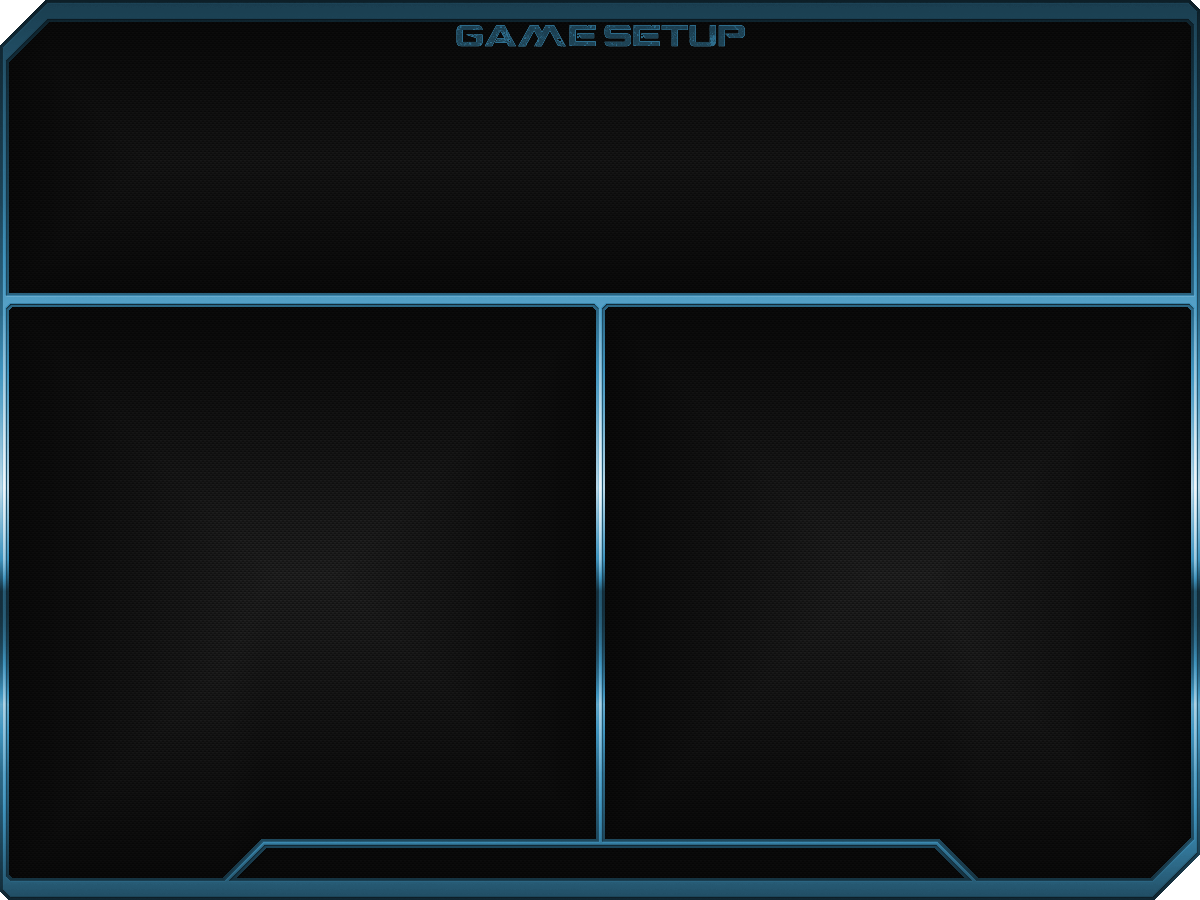
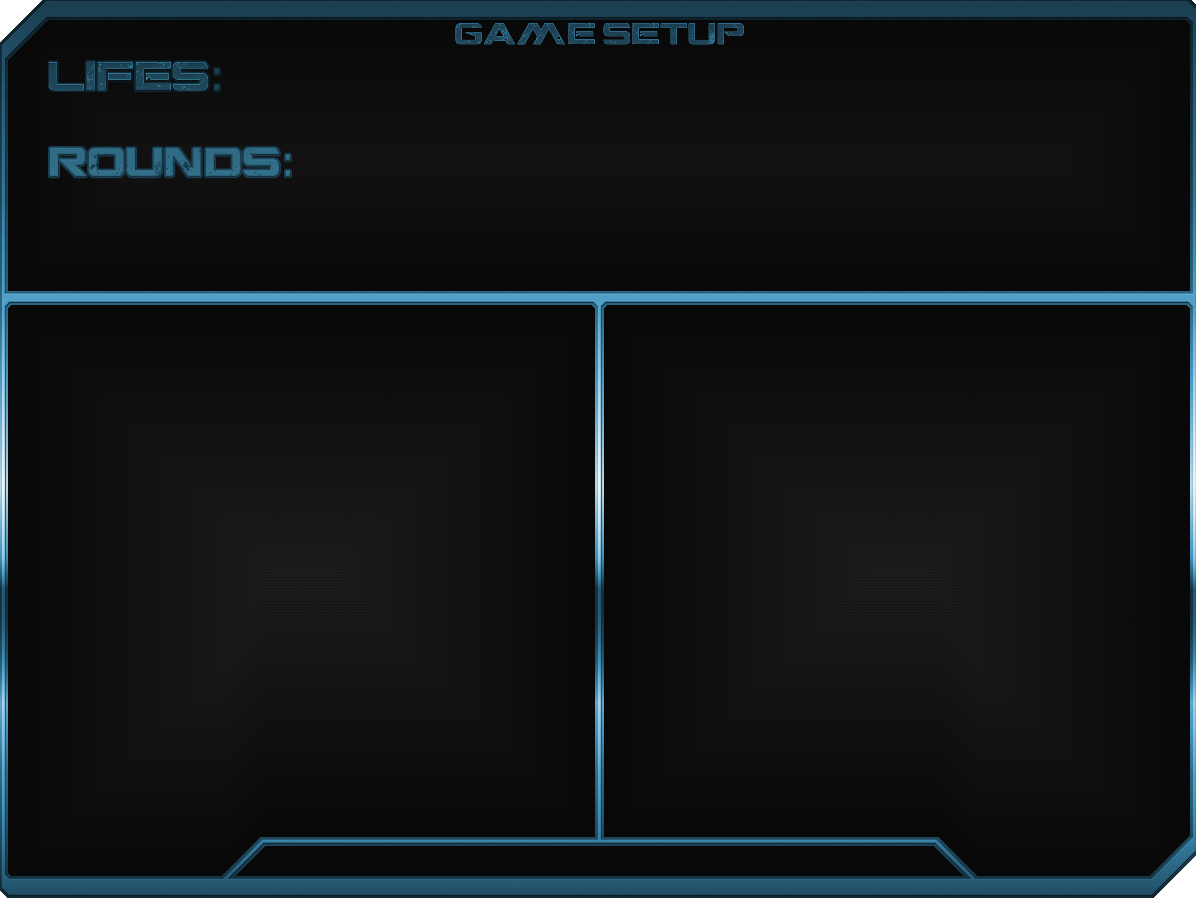
Fixed hotseat menu

diff --git a/Source/MainMenuCreate.cpp b/Source/MainMenuCreate.cpp
@@ -67,7 +67,7 @@ void MainMenu::CreateOptionsMenu()
 	tempElement = new SimpleButton(offSet, 0, 1, "Media/OptionsMenu/buttonadvanced.png", dx, windowHeight, new NoEvent(), "Media/OptionsMenu/clickadvanced.png", "Media/OptionsMenu/mouseoveradvanced.png", dx * (496.0f / 1200) + offSet, windowHeight * (26.0f / 900), dx * (222.0f / 1200), windowHeight * (30.0f / 900));
 	this->mSets[OPTIONS_GAMEPLAY].AddElement(tempElement);
 	*/
-	tempElement = new TextBox(dx * (380.0f / 1200.0f)+offSet, windowHeight*(200.0f / 900.f) ,50 , "Media/Menus/TextBoxBG.png", 600, 100, "Write Text Here", "SampleTest", 1.0f);
+	tempElement = new TextBox(dx * (380.0f / 1200.0f)+offSet, windowHeight*(200.0f / 900.f) ,50 , "Media/Menus/TextBoxBG.png", 600, 100, "Write Text Here", "SampleTest", 1.0f, 25);
 	this->mSets[OPTIONS_GAMEPLAY].AddElement(tempElement);
 
 	//Ugly drop down list to start with
@@ -80,7 +80,7 @@ void MainMenu::CreateOptionsMenu()
 
 	this->mSets[OPTIONS_GAMEPLAY].AddElement(tempElement);
 
-	tempElement = new SimpleButton(dx * (380.0f / 1200.0f)+offSet, windowHeight*(350.0f / 900.f), 1, "Media/Menus/Square_OK.png", 100, 100, new ChangeSetEvent(100000), "", "", dx * (380.0f / 1200.0f)+offSet, windowHeight*(350.0f / 900.f), 100, 100);
+	tempElement = new SimpleButton(dx * (380.0f / 1200.0f)+offSet, windowHeight * (350.0f / 900.f), 1, "Media/Menus/Square_OK.png", 100, 100, new ChangeSetEvent(100000), "", "", dx * (380.0f / 1200.0f)+offSet, windowHeight*(350.0f / 900.f), 100, 100);
 	this->mSets[OPTIONS_GAMEPLAY].AddElement(tempElement);
 
 	tempElement = NULL;
@@ -93,6 +93,12 @@ void MainMenu::CreateHotseatMenu()
 	float offSet = (windowWidth - dx) / 2.0f;
 
 	Element* tempElement = new GUIArchButton(offSet, 0, 1, "Media/HotseatMenu/gamesetupmenu.png", dx, windowHeight, new NoEvent(), " ", " ");
+	this->mSets[OPTIONS_HOTSEAT].AddElement(tempElement);
+
+	tempElement = new TextBox(offSet + dx * (202.0f / 1200.0f), windowHeight * (27.0f / 900.0f), 1, "", 100, 100, "3", "Lifes", 1.15, 2);
+	this->mSets[OPTIONS_HOTSEAT].AddElement(tempElement);
+
+	tempElement = new TextBox(offSet + dx * (275.0f / 1200.0f), windowHeight * (114.0f / 900.0f), 1, "", 100, 100, "5", "Rounds", 1.15, 2);
 	this->mSets[OPTIONS_HOTSEAT].AddElement(tempElement);
 
 	tempElement = new SimpleButton(offSet, 0, 1, "Media/HotseatMenu/buttonbacktomenuhotseat.png", dx, windowHeight, new ChangeSetEvent(MAINMENU), "Media/HotseatMenu/clickbacktomenuhotseat.png" , "Media/HotseatMenu/mouseoverbacktomenuhotseat.png", dx * (605.0f / 1200)+offSet, windowHeight * (847.0f / 900), dx * (330.0f / 1200), windowHeight * (30.0f / 900));

diff --git a/Source/GUI/TextBox.cpp b/Source/GUI/TextBox.cpp
@@ -16,7 +16,7 @@ TextBox::TextBox() : Element()
 	this->mPressedOutside = false;
 	this->mTextSize = 0;
 }
-TextBox::TextBox(float x, float y, float z, string textureName, float width, float height, string text, string name, float textSize) : Element(x, y, z, textureName, width, height)
+TextBox::TextBox(float x, float y, float z, string textureName, float width, float height, string text, string name, float textSize, int maxNrOfChars) : Element(x, y, z, textureName, width, height)
 {
 	this->mActiveX = x+25;
 	this->mActiveY = y+25;
@@ -26,6 +26,8 @@ TextBox::TextBox(float x, float y, float z, string textureName, float width, flo
 
 	this->mText = text;
 	this->mName = name;
+
+	this->mMaxNrOfChars = maxNrOfChars;
 
 	this->mFocused = false;
 	this->mPressed = false;
@@ -102,12 +104,12 @@ bool TextBox::AddToRenderer(GraphicsEngine* ge)
 
  void TextBox::CheckString(GraphicsEngine* ge)
  {
-	 if(this->mPointText->GetText().size() < 25)
+	 if(this->mPointText->GetText().size() < this->mMaxNrOfChars)
 	 {
 		 string pushString = "";
-		 const int NROFLETTERS = 27;
-		 char keys[NROFLETTERS] = {'a', 'b', 'c', 'd', 'e', 'f', 'g', 'h', 'i', 'j', 'k', 'l', 'm', 'n', 'o', 'p', 'q', 'r', 's', 't', 'u', 'v', 'w', 'x', 'y', 'z', ' '};
-		 char KEYS[NROFLETTERS] = {'A', 'B', 'C', 'D', 'E', 'F', 'G', 'H', 'I', 'J', 'K', 'L', 'M', 'N', 'O', 'P', 'Q', 'R', 'S', 'T', 'U', 'V', 'W', 'X', 'Y', 'Z', ' '};
+		 const int NROFLETTERS = 37;
+		 char keys[NROFLETTERS] = {'a', 'b', 'c', 'd', 'e', 'f', 'g', 'h', 'i', 'j', 'k', 'l', 'm', 'n', 'o', 'p', 'q', 'r', 's', 't', 'u', 'v', 'w', 'x', 'y', 'z', ' ', '1', '2', '3', '4', '5', '6', '7', '8', '9', '0'};
+		 char KEYS[NROFLETTERS] = {'A', 'B', 'C', 'D', 'E', 'F', 'G', 'H', 'I', 'J', 'K', 'L', 'M', 'N', 'O', 'P', 'Q', 'R', 'S', 'T', 'U', 'V', 'W', 'X', 'Y', 'Z', ' ', '1', '2', '3', '4', '5', '6', '7', '8', '9', '0'};
 		 if(ge->GetKeyListener()->IsPressed(VK_SHIFT))
 		 {
 			 for(int i = 0; i < NROFLETTERS; i++)

diff --git a/Source/GameManager.cpp b/Source/GameManager.cpp
@@ -47,11 +47,16 @@ GameManager::~GameManager()
 	*/
 }
 
-bool GameManager::Play(const int numPlayers)
+bool GameManager::Play(const int numPlayers, int lifes, int rounds)
 {
 	this->mGameMode = DM;
 	this->mNumPlayers = numPlayers;
 	this->Initialize();
+	for(int i = 0; i < numPlayers; i++)
+	{
+		this->mBalls[i]->SetNumLives(lifes);
+	}
+	this->mRounds = rounds;
 	bool running = true;
 	bool zoomOutPressed = false;
 	bool zoomInPressed = false;
@@ -127,7 +132,7 @@ bool GameManager::Play(const int numPlayers)
 			mGe->GetCamera()->moveForward(diff);
 		if(mGe->GetKeyListener()->IsClicked(1))
 			mGe->GetCamera()->moveBackward(diff);
-
+		
 		// move ball 2
 		if(mGe->GetKeyListener()->IsPressed('H'))
 			mBalls[1]->AddForce(Vector3(-diff,0,0));	
@@ -141,7 +146,7 @@ bool GameManager::Play(const int numPlayers)
 		if(this->mGe->GetKeyListener()->IsPressed(VK_ESCAPE))
 			running = this->mIGM->Run();
 		
-
+		
 		for(int i = 0; i < this->mNumPlayers; i++)
 		{
 			this->mBalls[i]->Update(diff);
@@ -175,7 +180,7 @@ bool GameManager::Play(const int numPlayers)
 
 		if(!this->mGe->isRunning())
 			running = false;
-
+		
 		if(numAlivePlayers <= 1)
 			running = false;
 	}

diff --git a/Source/MainMenu.cpp b/Source/MainMenu.cpp
@@ -166,11 +166,13 @@ bool MainMenu::Run()
 					{
 						CursorControl cc;
 						cc.SetVisibility(true);
-
+						string lifes = this->mSets[this->mCurrentSet].GetTextFromField("Lifes");
+						string rounds = this->mSets[this->mCurrentSet].GetTextFromField("Rounds");
+						
 						this->mSets[this->mCurrentSet].RemoveSetFromRenderer(this->mGe);
 						this->mGm = new GameManager(this->mGe);
-
-						this->mGm->Play(2);
+						
+						this->mGm->Play(2, atoi(lifes.c_str()), atoi(rounds.c_str()));
 						
 						SAFE_DELETE(this->mGm);
 						this->mCurrentSet = MAINMENU;

diff --git a/Source/GUI/TextBox.h b/Source/GUI/TextBox.h
@@ -17,7 +17,8 @@ private:
 	bool mPressed;
 	bool mPressedOutside;
 
-	int mTextSize;
+	float mTextSize;
+	int mMaxNrOfChars;
 
 	string mText;
 	string mName;
@@ -25,7 +26,7 @@ private:
 	Text* mPointText;
 public:
 	TextBox();
-	TextBox(float x, float y, float z, string textureName, float width, float height, string text, string name, float textSize);
+	TextBox(float x, float y, float z, string textureName, float width, float height, string text, string name, float textSize, int maxNrOfChars);
 	virtual ~TextBox();
 
 	/*! Adds the element to the renderer*/

diff --git a/Source/main.cpp b/Source/main.cpp
@@ -13,7 +13,7 @@ int WINAPI wWinMain(HINSTANCE hInstance, HINSTANCE, LPWSTR, int nCmdShow)
 	// Create parameters for the graphics engine, LOAD THEM FROM .cfg-FILE later on!
 	GraphicsEngineParams params;
 	params.windowHeight = 900;
-	params.windowWidth = 1440;
+	params.windowWidth = 1600;
 	params.FXAAQuality = 0;			// 0 - 4
 	params.ShadowMapSettings = 0;	// 0 - 10 (works with higher but VERY consuming)
 	params.CamType = RTS;

diff --git a/Source/GameManager.h b/Source/GameManager.h
@@ -43,7 +43,7 @@ public:
 	virtual		~GameManager();
 
 	/*! Starts the game with the assigned amount of players. */
-	bool		Play(const int numPlayers);
+	bool		Play(const int numPlayers, int lifes, int rounds);
 
 	/*! Starts LAN game with the assigned amount of players. */
 	bool		PlayLAN(ServerInfo server);
